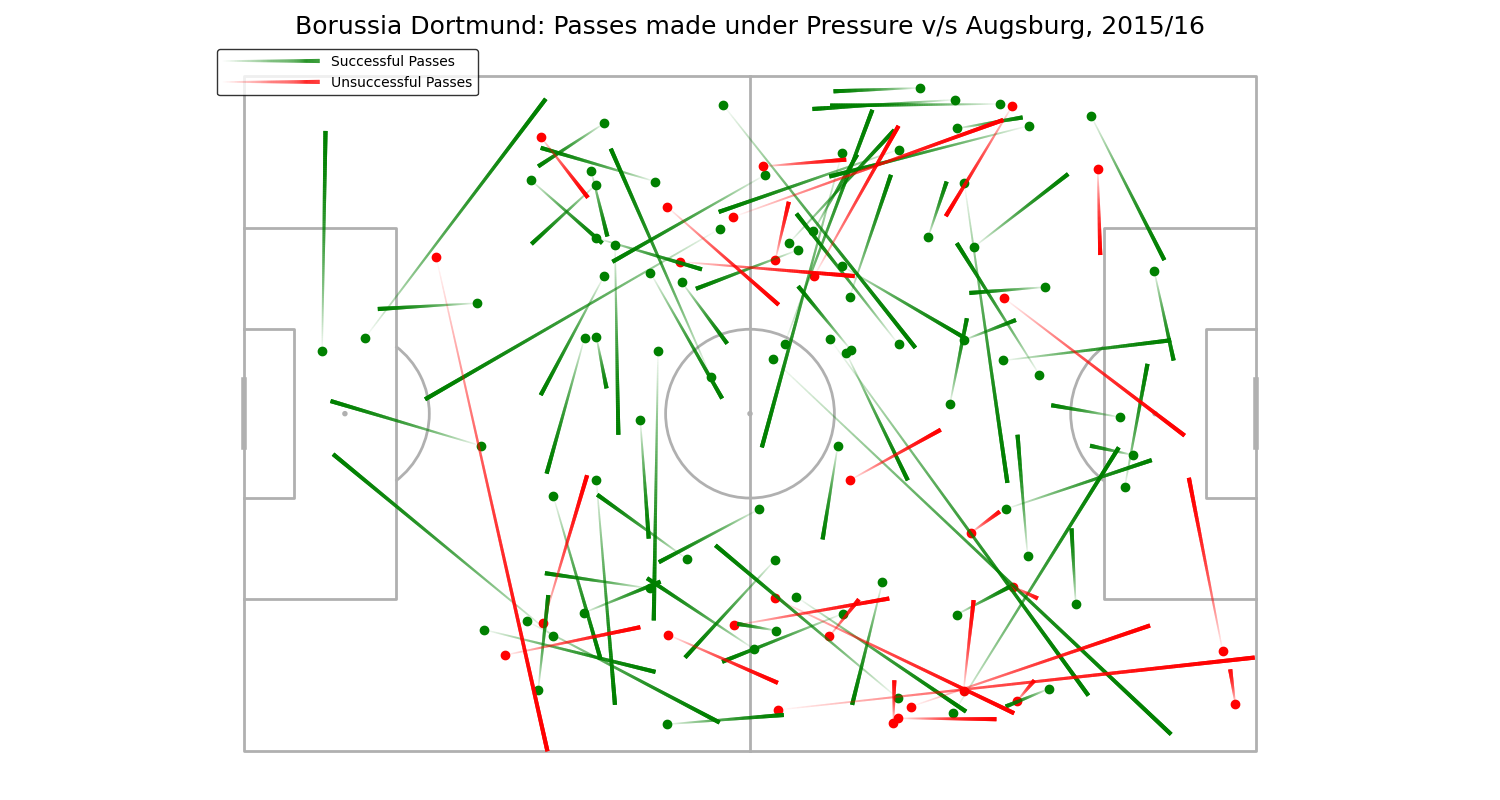
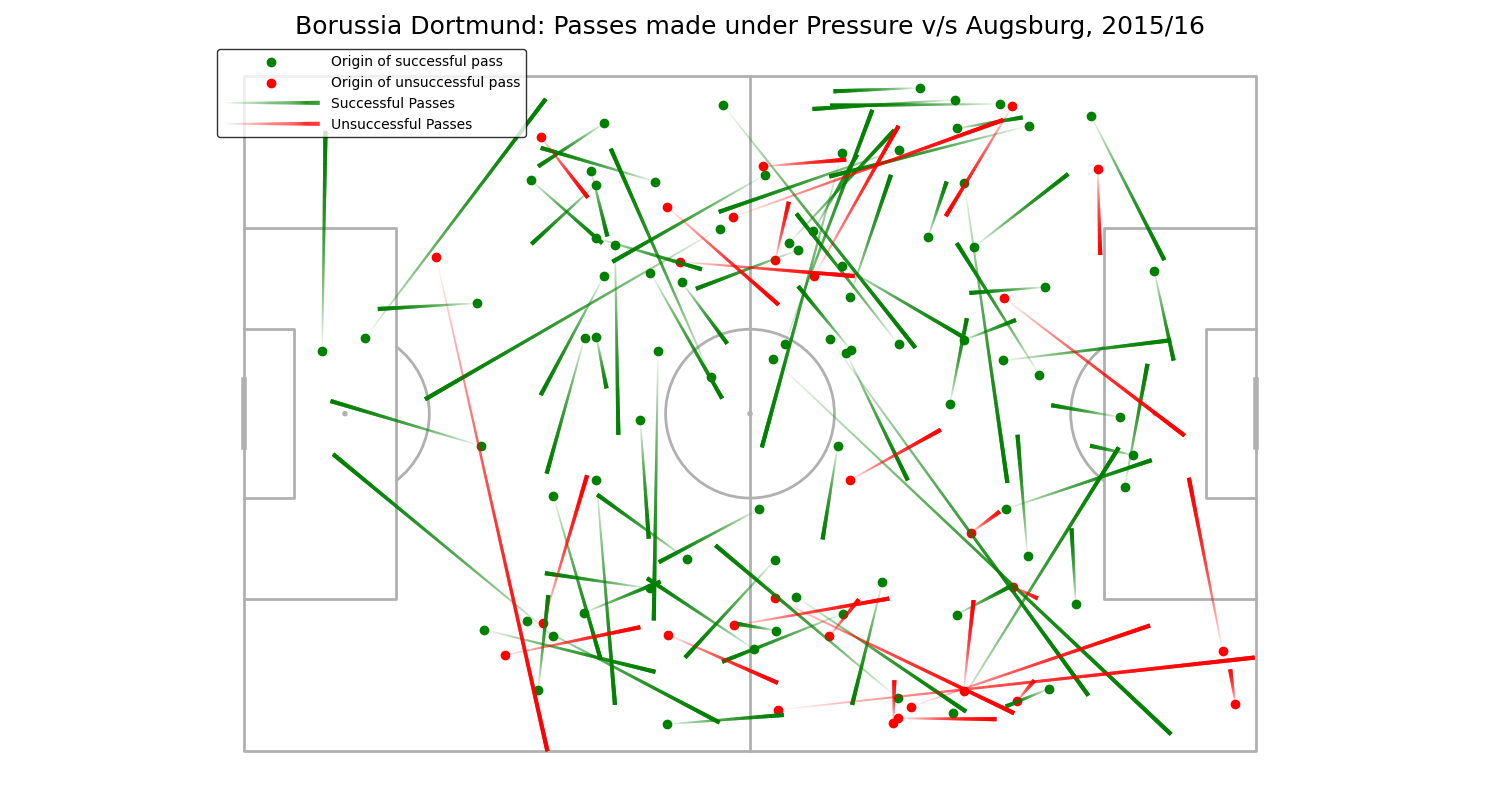
added "Origin of passes" in legend

Changed region(s): [[0.1533, 0.0625, 0.368, 0.1875]]

diff --git a/StatsbombModelling.py b/StatsbombModelling.py
@@ -93,8 +93,8 @@ def make_pass_plot(pass_data):
     us_y_start=us_passes['y_start'].to_list()
     us_y_end=us_passes['y_end'].to_list()
 
-    pitch.scatter(s_x_start,s_y_start,c='green',ax=ax)
-    pitch.scatter(us_x_start,us_y_start,c='red',ax=ax)
+    pitch.scatter(s_x_start,s_y_start,c='green',ax=ax,label='Origin of successful pass')
+    pitch.scatter(us_x_start,us_y_start,c='red',ax=ax,label='Origin of unsuccessful pass')
     lc1=pitch.lines(s_x_start, s_y_start, s_x_end, s_y_end, lw=3, comet=True, color='green', ax=ax, label='Successful Passes',transparent=True)
     lc2=pitch.lines(us_x_start, us_y_start, us_x_end, us_y_end, lw=3, comet=True, color='red', ax=ax, label='Unsuccessful Passes',transparent=True)
     ax.legend(facecolor='white', edgecolor='black', fontsize=10, loc='upper left', handlelength=7)
